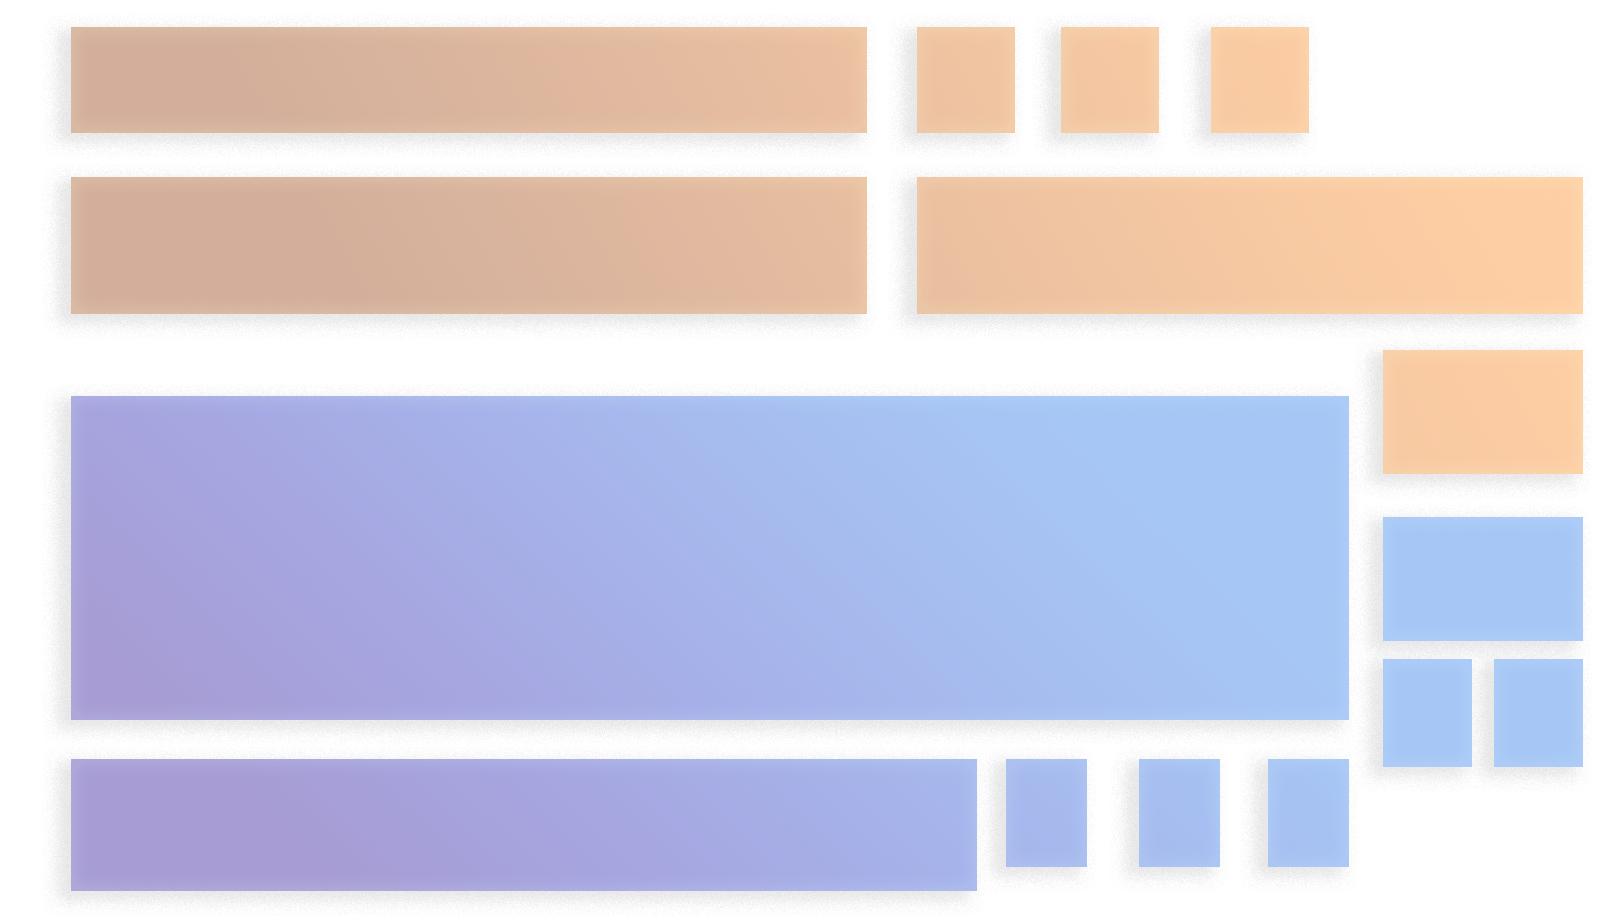
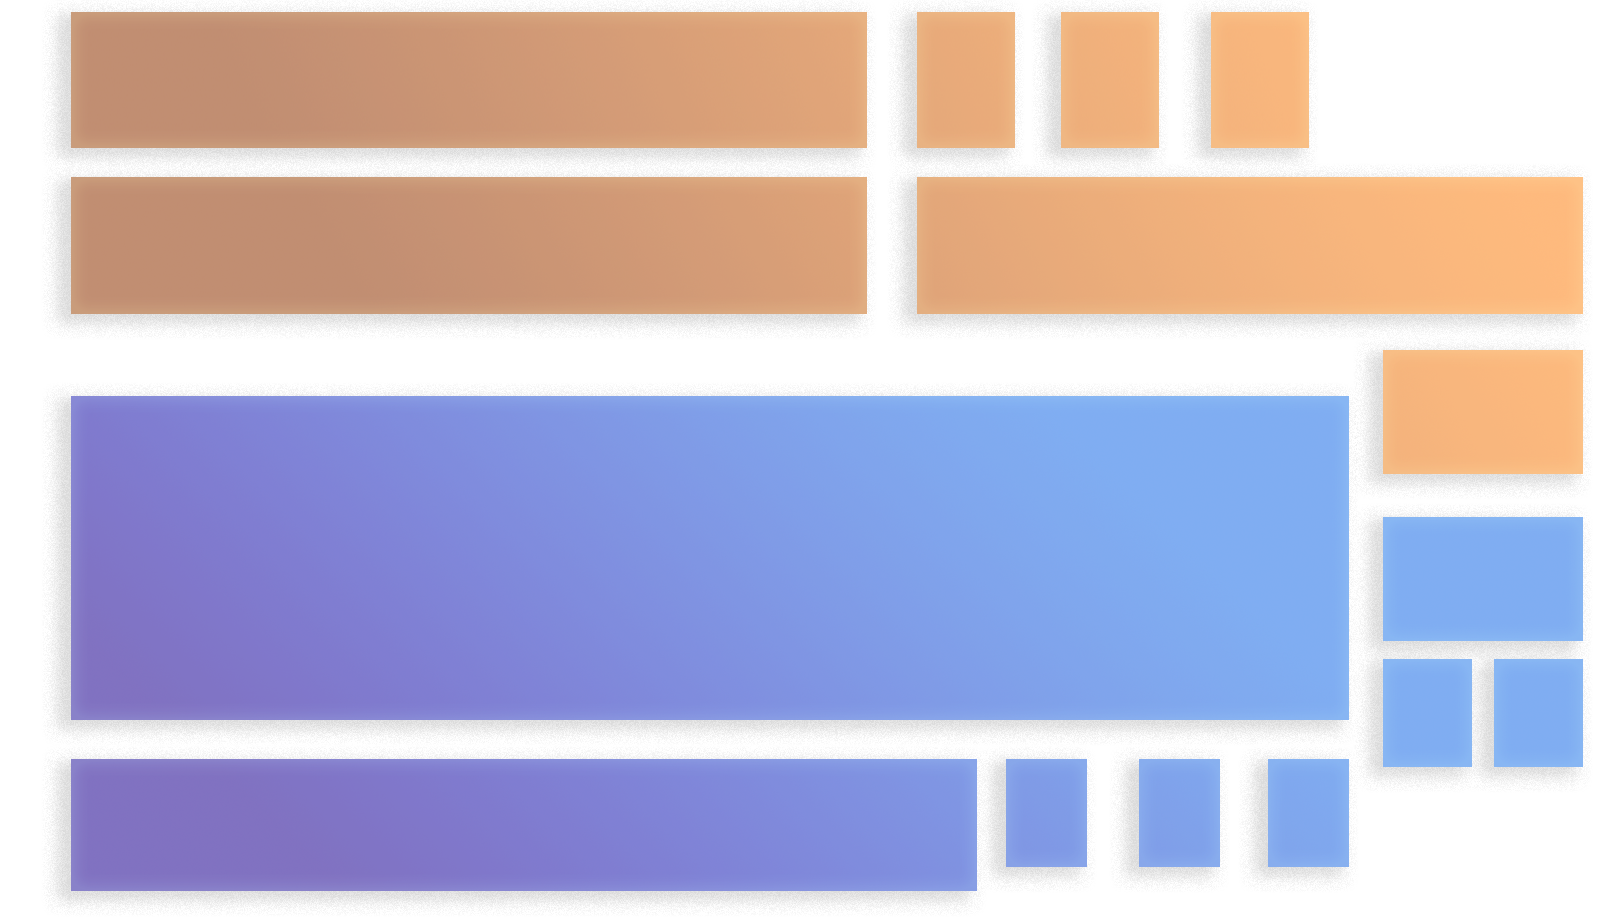
Changed all ofwhom checks to card.owner

diff --git a/o8g/Scripts/autoscripts.py b/o8g/Scripts/autoscripts.py
@@ -811,6 +811,7 @@ def redirect(Autoscript, card, announceText = None, notificationType = 'Quick', 
    debugNotify(">>> redirect(){}".format(extraASDebug(Autoscript))) #Debug
    if re.search(r':Pass\b', Autoscript): return # Pass is a simple command of doing nothing ^_^
    targetC = findTarget(Autoscript)
+   debugNotify("card.owner = {}".format(card.owner),2)
    targetPL = ofwhom(Autoscript,card.owner) # So that we know to announce the right person the effect, affects.
    if not announceText: announceText = "{} uses {}'s ability to".format(targetPL,card) 
    debugNotify(" targetC: {}. Notification Type = {}".format(targetC,notificationType), 3) # Debug
@@ -1223,7 +1224,7 @@ def ReshuffleX(Autoscript, announceText, card, targetCards = None, notification 
    if targetCards is None: targetCards = []
    mute()
    X = 0
-   targetPL = ofwhom(Autoscript, card.controller)
+   targetPL = ofwhom(Autoscript, card.owner)
    action = re.search(r'\bReshuffle([A-Za-z& ]+)', Autoscript)
    debugNotify("!!! regex: {}".format(action.groups())) # Debug
    if action.group(1) == 'HQ' or action.group(1) == 'Stack':
@@ -1390,7 +1391,7 @@ def CreateDummy(Autoscript, announceText, card, targetCards = None, notification
    dummyCard = None
    action = re.search(r'\bCreateDummy[A-Za-z0-9_ -]*(-with)(?!onOpponent|-doNotTrash|-nonUnique)([A-Za-z0-9_ -]*)', Autoscript)
    if debugVerbosity >= 3 and action: notify('clicks regex: {}'.format(action.groups())) # debug
-   targetPL = ofwhom(Autoscript, card.controller)
+   targetPL = ofwhom(Autoscript, card.owner)
    for c in table:
       if c.model == card.model and c.controller == targetPL and c.highlight == DummyColor: dummyCard = c # We check if already have a dummy of the same type on the table.
    if not dummyCard or re.search(r'nonUnique',Autoscript): #Some create dummy effects allow for creating multiple copies of the same card model.
@@ -1531,7 +1532,8 @@ def InflictX(Autoscript, announceText, card, targetCards = None, notification = 
    action = re.search(r'\b(Inflict)([0-9]+)(Meat|Net|Brain)Damage', Autoscript) # Find out what kind of damage we're going
    multiplier = per(Autoscript, card, n, targetCards)
    enhancer = findEnhancements(Autoscript) #See if any of our cards increases damage we deal
-   targetPL = ofwhom(Autoscript, card.controller) #Find out who the target is
+   debugNotify("card.owner = {}".format(card.owner),3)
+   targetPL = ofwhom(Autoscript, card.owner) #Find out who the target is
    if enhancer > 0: enhanceTXT = ' (Enhanced: +{})'.format(enhancer) #Also notify that this is the case
    else: enhanceTXT = ''
    if multiplier == 0 or num(action.group(2)) == 0: DMG = 0 # if we don't do any damage, we don't enhance it
@@ -1580,7 +1582,7 @@ def RetrieveX(Autoscript, announceText, card, targetCards = None, notification =
    if targetCards is None: targetCards = []
    MUtext = ''
    action = re.search(r'\bRetrieve([0-9]+)Card', Autoscript)
-   targetPL = ofwhom(Autoscript, card.controller)
+   targetPL = ofwhom(Autoscript, card.owner)
    debugNotify("Setting Source", 2)
    if re.search(r'-fromTrash', Autoscript) or re.search(r'-fromArchives', Autoscript) or re.search(r'-fromHeap', Autoscript):
       source = targetPL.piles['Heap/Archives(Face-up)']
@@ -2336,6 +2338,7 @@ def ASclosureTXT(string, count): # Used by Gain and Transfer, to return unicode 
    
 def ofwhom(Autoscript, controller = me): 
    debugNotify(">>> ofwhom(){}".format(extraASDebug(Autoscript))) #Debug
+   debugNotify("Controller = {}".format(controller),2) #Debug
    if re.search(r'o[fn]Opponent', Autoscript):
       if debugVerbosity >= 2:  notify("Autoscript requirement found!")
       if len(players) > 1:

diff --git a/changelog.md b/changelog.md
@@ -3,6 +3,11 @@ Changelog - Android:Netrunner LCG OCTGN Game Definition
 
 ### 3.1.4.x
 
+* Fix for Fetal AI damaging the corp.
+* Added more opaque board.
+
+### 3.1.4.x
+
 * Added new background
 * Added new board (Many many thanks to [Simon Gunkel](http://boardgamegeek.com/user/susuexp)
 * Repositioned cards to fit with the new board.
